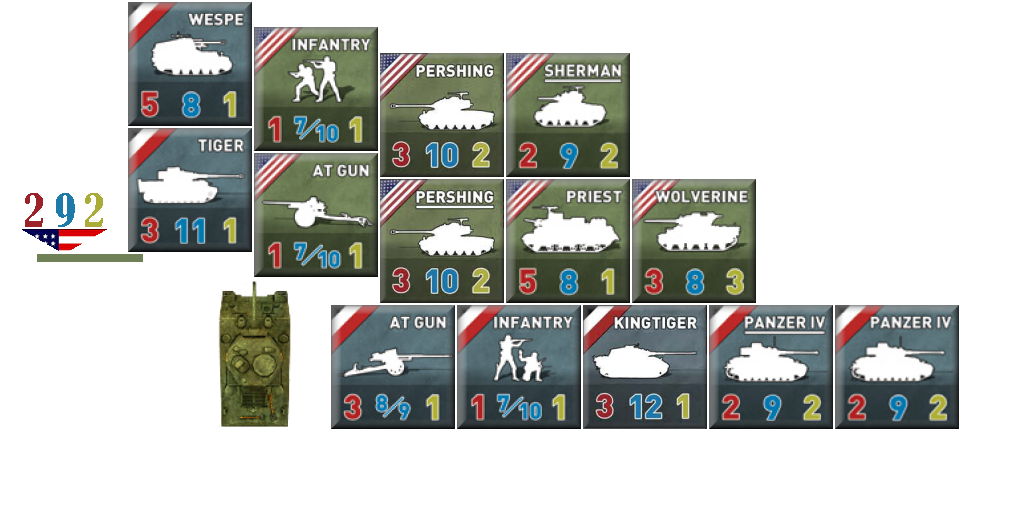
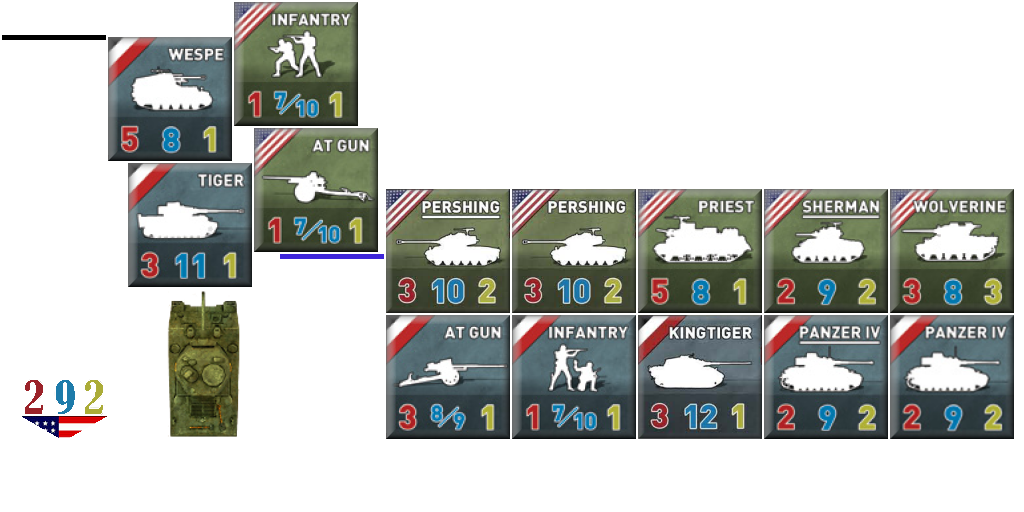
splite head into us-head and ge-head

diff --git a/core/src/ch/asynk/tankontank/game/battles/Factory.java b/core/src/ch/asynk/tankontank/game/battles/Factory.java
@@ -116,54 +116,54 @@ public class Factory implements Board.TileBuilder, Disposable
         switch(id) {
             case GE_AT_GUN:
                 ut = UnitType.AT_GUN;
-                u = new Unit(Army.GE, id, ut, 3, 8, 9, 1, "ge-at-gun", "head", pawnsAtlas, pawnOverlaysAtlas);
+                u = new Unit(Army.GE, id, ut, 3, 8, 9, 1, "ge-at-gun", "ge-head", pawnsAtlas, pawnOverlaysAtlas);
                 break;
             case GE_INFANTRY:
                 ut = UnitType.INFANTRY;
-                u = new Unit(Army.GE, id, ut, 1, 7, 10, 1, "ge-infantry", "head", pawnsAtlas, pawnOverlaysAtlas);
+                u = new Unit(Army.GE, id, ut, 1, 7, 10, 1, "ge-infantry", "ge-head", pawnsAtlas, pawnOverlaysAtlas);
                 break;
             case GE_KINGTIGER:
-                u = new Unit(Army.GE, id, ut, 3, 12, 1, "ge-kingtiger", "head", pawnsAtlas, pawnOverlaysAtlas);
+                u = new Unit(Army.GE, id, ut, 3, 12, 1, "ge-kingtiger", "ge-head", pawnsAtlas, pawnOverlaysAtlas);
                 break;
             case GE_PANZER_IV:
-                u = new Unit(Army.GE, id, ut, 2, 9, 2, "ge-panzer-iv", "head", pawnsAtlas, pawnOverlaysAtlas);
+                u = new Unit(Army.GE, id, ut, 2, 9, 2, "ge-panzer-iv", "ge-head", pawnsAtlas, pawnOverlaysAtlas);
                 break;
             case GE_PANZER_IV_HQ:
-                u = new Unit(Army.GE, id, utHq, 2, 9, 2, "ge-panzer-iv-hq", "head", pawnsAtlas, pawnOverlaysAtlas);
+                u = new Unit(Army.GE, id, utHq, 2, 9, 2, "ge-panzer-iv-hq", "ge-head", pawnsAtlas, pawnOverlaysAtlas);
                 break;
             case GE_TIGER:
-                u = new Unit(Army.GE, id, ut, 3, 11, 1, "ge-tiger", "head", pawnsAtlas, pawnOverlaysAtlas);
+                u = new Unit(Army.GE, id, ut, 3, 11, 1, "ge-tiger", "ge-head", pawnsAtlas, pawnOverlaysAtlas);
                 break;
             case GE_WESPE:
                 ut = UnitType.ARTILLERY;
-                u = new Unit(Army.GE, id, ut, 5, 8, 1, "ge-wespe", "head", pawnsAtlas, pawnOverlaysAtlas);
+                u = new Unit(Army.GE, id, ut, 5, 8, 1, "ge-wespe", "ge-head", pawnsAtlas, pawnOverlaysAtlas);
                 break;
             case US_AT_GUN:
                 ut = UnitType.AT_GUN;
-                u = new Unit(Army.US, id, ut, 1, 7, 10, 1, "us-at-gun", "head", pawnsAtlas, pawnOverlaysAtlas);
+                u = new Unit(Army.US, id, ut, 1, 7, 10, 1, "us-at-gun", "us-head", pawnsAtlas, pawnOverlaysAtlas);
                 break;
             case US_INFANTRY:
                 ut = UnitType.INFANTRY;
-                u = new Unit(Army.US, id, ut, 1, 7, 10, 1, "us-infantry", "head", pawnsAtlas, pawnOverlaysAtlas);
+                u = new Unit(Army.US, id, ut, 1, 7, 10, 1, "us-infantry", "us-head", pawnsAtlas, pawnOverlaysAtlas);
                 break;
             case US_PERSHING:
-                u = new Unit(Army.US, id, ut, 3, 10, 2, "us-pershing", "head", pawnsAtlas, pawnOverlaysAtlas);
+                u = new Unit(Army.US, id, ut, 3, 10, 2, "us-pershing", "us-head", pawnsAtlas, pawnOverlaysAtlas);
                 break;
             case US_PERSHING_HQ:
-                u = new Unit(Army.US, id, utHq, 3, 10, 2, "us-pershing-hq", "head", pawnsAtlas, pawnOverlaysAtlas);
+                u = new Unit(Army.US, id, utHq, 3, 10, 2, "us-pershing-hq", "us-head", pawnsAtlas, pawnOverlaysAtlas);
                 break;
             case US_PRIEST:
                 ut = UnitType.ARTILLERY;
-                u = new Unit(Army.US, id, ut, 5, 8, 1, "us-priest", "head", pawnsAtlas, pawnOverlaysAtlas);
+                u = new Unit(Army.US, id, ut, 5, 8, 1, "us-priest", "us-head", pawnsAtlas, pawnOverlaysAtlas);
                 break;
             case US_SHERMAN:
                 u = new Unit(Army.US, id, ut, 2, 9, 2, "us-sherman", "us-sherman-head", pawnsAtlas, pawnOverlaysAtlas);
                 break;
             case US_SHERMAN_HQ:
-                u = new Unit(Army.US, id, utHq, 2, 9, 2, "us-sherman-hq", "head", pawnsAtlas, pawnOverlaysAtlas);
+                u = new Unit(Army.US, id, utHq, 2, 9, 2, "us-sherman-hq", "us-head", pawnsAtlas, pawnOverlaysAtlas);
                 break;
             case US_WOLVERINE:
-                u = new Unit(Army.US, id, ut, 3, 8, 3, "us-wolverine", "head", pawnsAtlas, pawnOverlaysAtlas);
+                u = new Unit(Army.US, id, ut, 3, 8, 3, "us-wolverine", "us-head", pawnsAtlas, pawnOverlaysAtlas);
                 break;
         }
 
